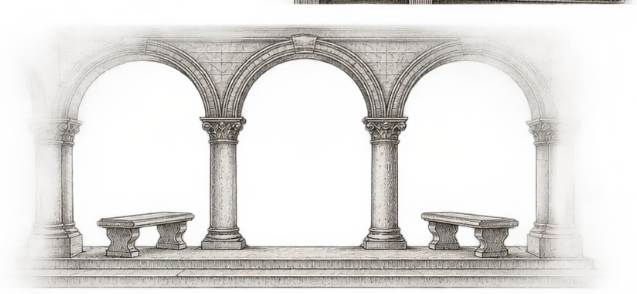
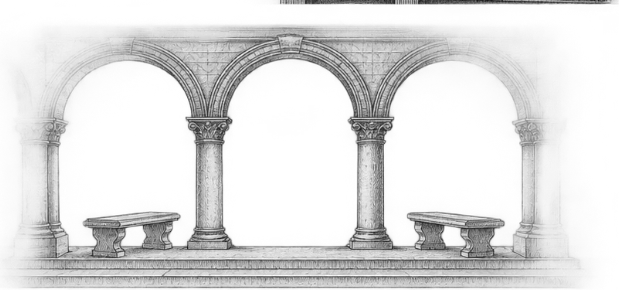
feat(web): Work's final scene; the plates masked by their lines' ink (LC42)
The mask took only the PNG's alpha, so a scene drew as a grey silhouette. The
plates now carry the lines' darkness as their alpha (trimmed, 1120 px at most):
the drawing reads, the paper is gone. Work's is Luca's final 1536×1024; Learn,
Forum and Labs are still the provisional cuts.

diff --git a/apps/web/src/components/layout/SectionBackdrop.tsx b/apps/web/src/components/layout/SectionBackdrop.tsx
@@ -8,10 +8,10 @@ import type { SectionId } from '../../features/sections/sections';
  * behind text, a card or a button; Learn's «Oggi», already full, has none.
  */
 const PLATES: Record<SectionId, { file: string; width: number; ratio: number; fadeRight: boolean }> = {
-  opus: { file: 'sfondo-work', width: 360, ratio: 306 / 390, fadeRight: true },
-  gymnasium: { file: 'sfondo-learn', width: 560, ratio: 308 / 649, fadeRight: true },
-  forum: { file: 'sfondo-forum', width: 560, ratio: 294 / 637, fadeRight: false },
-  academia: { file: 'sfondo-labs', width: 560, ratio: 294 / 625, fadeRight: false },
+  opus: { file: 'sfondo-work', width: 420, ratio: 929 / 966, fadeRight: false },
+  gymnasium: { file: 'sfondo-learn', width: 560, ratio: 296 / 630, fadeRight: true },
+  forum: { file: 'sfondo-forum', width: 560, ratio: 290 / 619, fadeRight: false },
+  academia: { file: 'sfondo-labs', width: 560, ratio: 289 / 588, fadeRight: false },
 };
 
 /** A plate shorter than this would be a smudge, not a scene. */
@@ -52,7 +52,7 @@ export function SectionBackdrop({ section, pathname, scroller }: { section: Sect
   const height = Math.min(tallest, room);
   const width = Math.round(height / plate.ratio);
   const url = `url(${import.meta.env.BASE_URL}illustrations/${plate.file}.webp)`;
-  // Work's and Learn's scenes are cut at the right: the cut fades into the paper (no new files needed).
+  // A scene cut at the right (the provisional cuts): the cut fades into the paper (no new files needed).
   const masks = plate.fadeRight ? `${url}, linear-gradient(to left, transparent, #000 15%)` : url;
   const style: CSSProperties = {
     width,
